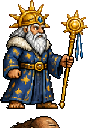
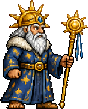
Ülgen'in savaş bedeni düzeltildi: altına komşu hücreden Tepegöz'ün kafası taşmıştı (ayaklar alt kenarda değildi, havada duruyordu); beden_kes en büyük dikey bandı bırakır
Claude-Session: https://claude.ai/code/session_01YPoiBXJL5BB37wvd4oSVzG

diff --git a/tasarim/beden_kes.py b/tasarim/beden_kes.py
@@ -36,6 +36,27 @@ def en_buyuk_parca(im):
                 tp[x, y] = (0, 0, 0, 0)
     return temiz
 
+def en_buyuk_bant(im):
+    """Boş satırlarla ayrılmış dikey bantlardan en yükseğini bırakır (2026-11-23: Ülgen'in altına komşu hücreden
+    Tepegöz'ün kafası taşmıştı, ayakları alt kenarda değildi, savaşta havada duruyordu)."""
+    a = im.getchannel("A")
+    w, h = im.size
+    px = a.load()
+    dolu = [any(px[x, y] > 40 for x in range(w)) for y in range(h)]
+    bantlar, bas = [], None
+    for y in range(h + 1):
+        if y < h and dolu[y]:
+            bas = y if bas is None else bas
+        elif bas is not None:
+            bantlar.append((bas, y)); bas = None
+    if len(bantlar) <= 1:
+        return im
+    b0, b1 = max(bantlar, key=lambda b: b[1] - b[0])
+    temiz = Image.new("RGBA", im.size, (0, 0, 0, 0))
+    temiz.paste(im.crop((0, b0, w, b1)), (0, b0))
+    return temiz
+
+
 def main():
     cikis = os.path.join(KOK, "assets", "beden")
     os.makedirs(cikis, exist_ok=True)
@@ -57,6 +78,7 @@ def main():
             x0, y0 = int((i % sutun) * cw), int((i // sutun) * ch)
             parca = im.crop((x0, y0, int(x0 + cw), int(y0 + ch)))
             parca = en_buyuk_parca(parca)
+            parca = en_buyuk_bant(parca)
             kutu = parca.getbbox()
             if kutu:
                 parca = parca.crop(kutu)
